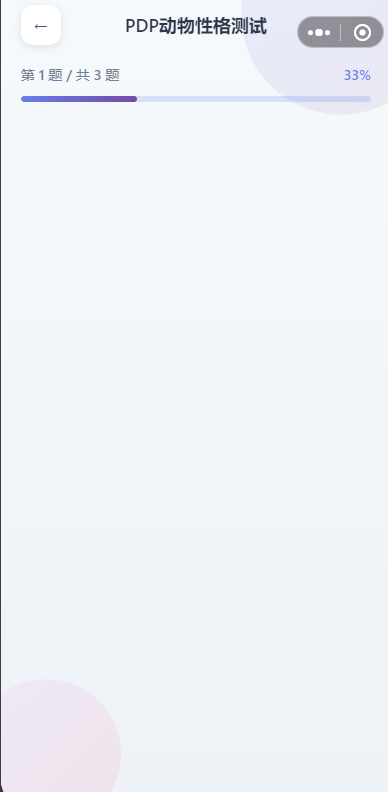
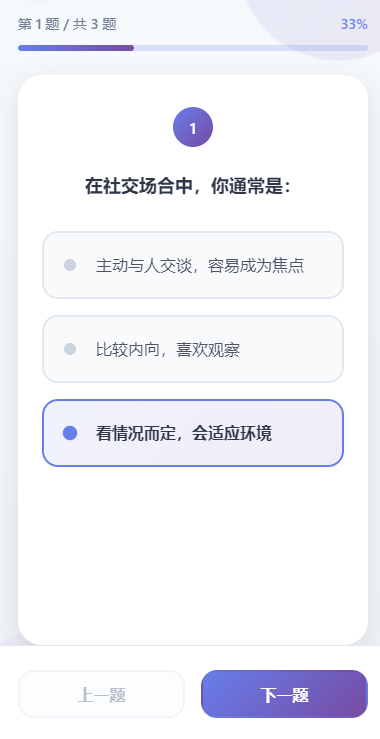
UI更新

diff --git a/src/pages/test/quiz/index.vue b/src/pages/test/quiz/index.vue
@@ -150,7 +150,7 @@ function completeTest() {
   console.log('测试完成，答案:', userAnswers.value)
   uni.showToast({
     title: '测试完成',
-    icon: 'success'
+    icon: 'success',
   })
 }
 </script>
@@ -234,30 +234,31 @@ function completeTest() {
             </text>
           </view>
         </view>
-      </view>
-    </view>
 
-    <!-- 底部导航按钮 -->
-    <view v-if="!loading && currentQuestion" class="bottom-nav">
-      <view class="nav-buttons">
-        <!-- 上一题按钮 -->
-        <view
-          class="nav-btn prev-btn"
-          :class="{ 'btn-disabled': !canGoPrev }"
-          @tap="prevQuestion"
-        >
-          <text class="btn-text">上一题</text>
-        </view>
+        <!-- 集成导航区域 -->
+        <view class="card-navigation">
+          <!-- 上一题按钮 -->
+          <view
+            class="card-nav-btn prev-btn"
+            :class="{ 'nav-disabled': !canGoPrev }"
+            @tap="prevQuestion"
+          >
+            <text class="nav-icon">←</text>
+          </view>
 
-        <!-- 下一题/完成按钮 -->
-        <view
-          class="nav-btn next-btn"
-          :class="{ 'btn-disabled': !canGoNext }"
-          @tap="progress === totalQuestions ? completeTest() : nextQuestion"
-        >
-          <text class="btn-text">
-            {{ progress === totalQuestions ? '完成测试' : '下一题' }}
-          </text>
+          <!-- 进度指示器 -->
+          <!-- <view class="progress-indicator">
+            <text class="progress-text">{{ progress }}/{{ totalQuestions }}</text>
+          </view> -->
+
+          <!-- 下一题/完成按钮 -->
+          <view
+            class="card-nav-btn next-btn"
+            :class="{ 'nav-disabled': !canGoNext }"
+            @tap="progress === totalQuestions ? completeTest() : nextQuestion"
+          >
+            <text class="nav-icon">{{ progress === totalQuestions ? '✓' : '→' }}</text>
+          </view>
         </view>
       </view>
     </view>
@@ -441,7 +442,7 @@ function completeTest() {
 .question-section {
   position: relative;
   z-index: 10;
-  padding: 0 20px;
+  padding: 0 20px 40px;
   flex: 1;
   display: flex;
   flex-direction: column;
@@ -494,6 +495,99 @@ function completeTest() {
   display: flex;
   flex-direction: column;
   gap: 16px;
+  margin-bottom: 24px;
+}
+
+/* 集成导航区域 */
+.card-navigation {
+  display: flex;
+  align-items: center;
+  justify-content: space-between;
+  padding: 20px 0 8px;
+  border-top: 1px solid rgba(0, 0, 0, 0.06);
+}
+
+.card-nav-btn {
+  display: flex;
+  align-items: center;
+  gap: 8px;
+  padding: 12px 16px;
+  border-radius: 12px;
+  cursor: pointer;
+  transition: all 0.3s ease;
+  min-width: 80px;
+  justify-content: center;
+}
+
+.prev-btn {
+  background: rgba(102, 126, 234, 0.1);
+  border: 1px solid rgba(102, 126, 234, 0.2);
+}
+
+.prev-btn:not(.nav-disabled):active {
+  transform: scale(0.95);
+  background: rgba(102, 126, 234, 0.15);
+}
+
+.next-btn {
+  background: linear-gradient(135deg, #667eea 0%, #764ba2 100%);
+  border: 1px solid transparent;
+}
+
+.next-btn:not(.nav-disabled):active {
+  transform: scale(0.95);
+  box-shadow: 0 4px 12px rgba(102, 126, 234, 0.3);
+}
+
+.nav-icon {
+  font-size: 16px;
+  font-weight: 600;
+}
+
+.prev-btn .nav-icon {
+  color: #667eea;
+}
+
+.next-btn .nav-icon {
+  color: white;
+}
+
+.nav-text {
+  font-size: 14px;
+  font-weight: 500;
+}
+
+.prev-btn .nav-text {
+  color: #667eea;
+}
+
+.next-btn .nav-text {
+  color: white;
+}
+
+.nav-disabled {
+  opacity: 0.4;
+  cursor: not-allowed;
+  pointer-events: none;
+}
+
+.nav-disabled:active {
+  transform: none;
+}
+
+.progress-indicator {
+  display: flex;
+  align-items: center;
+  justify-content: center;
+  padding: 8px 16px;
+  background: rgba(0, 0, 0, 0.04);
+  border-radius: 20px;
+}
+
+.progress-text {
+  font-size: 14px;
+  font-weight: 600;
+  color: #4a5568;
 }
 
 .option-item {
@@ -550,68 +644,5 @@ function completeTest() {
 .option-item.option-selected .option-text {
   color: #2d3748;
   font-weight: 600;
-}
-
-/* 底部导航 */
-.bottom-nav {
-  position: relative;
-  z-index: 10;
-  padding: 24px 20px 40px;
-  background: white;
-  border-top: 1px solid #e2e8f0;
-}
-
-.nav-buttons {
-  display: flex;
-  gap: 16px;
-}
-
-.nav-btn {
-  flex: 1;
-  height: 48px;
-  display: flex;
-  align-items: center;
-  justify-content: center;
-  border-radius: 16px;
-  font-weight: 600;
-  font-size: 16px;
-  cursor: pointer;
-  transition: all 0.3s ease;
-}
-
-.prev-btn {
-  background: #f8fafc;
-  border: 2px solid #e2e8f0;
-}
-
-.prev-btn .btn-text {
-  color: #718096;
-}
-
-.prev-btn:active {
-  transform: scale(0.98);
-}
-
-.next-btn {
-  background: linear-gradient(135deg, #667eea 0%, #764ba2 100%);
-  border: 2px solid transparent;
-}
-
-.next-btn .btn-text {
-  color: white;
-}
-
-.next-btn:active {
-  transform: scale(0.98);
-}
-
-.btn-disabled {
-  opacity: 0.5;
-  cursor: not-allowed;
-  pointer-events: none;
-}
-
-.btn-disabled:active {
-  transform: none;
 }
 </style>
